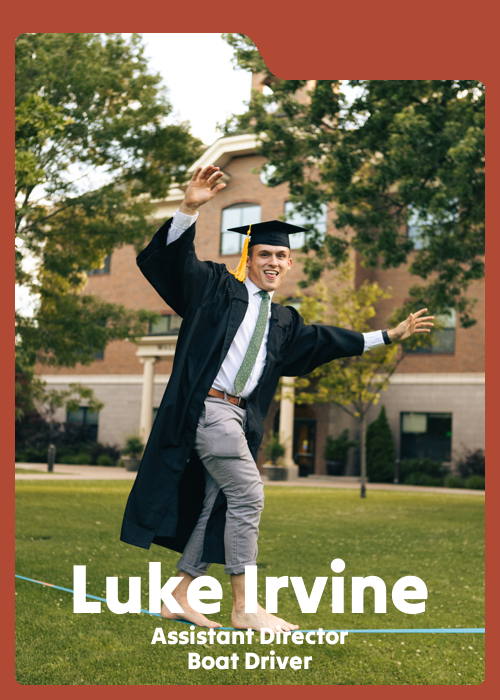
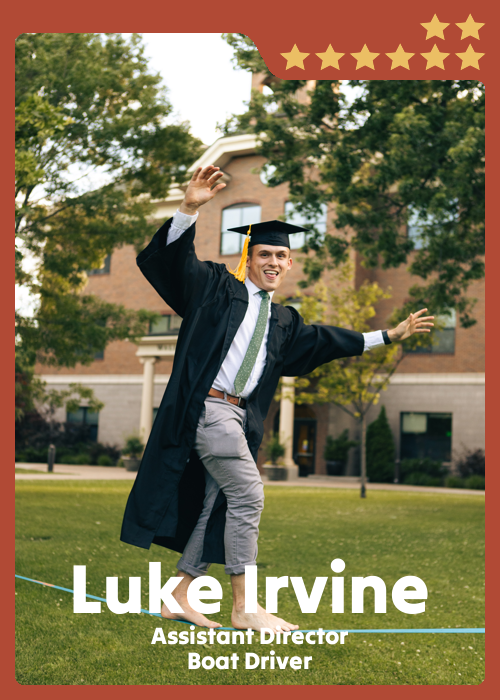
added stars

Changed region(s): [[0.57, 0.0, 0.96, 0.12]]

diff --git a/main.py b/main.py
@@ -4,7 +4,8 @@ import textwrap
 import os
 import json
 
-def add_front_text(canvas, draw, texts):
+def add_front_text(canvas, texts):
+  draw = ImageDraw.Draw(canvas)
   # set base margin
   y = canvas.height - 30
 
@@ -41,6 +42,13 @@ def add_front_text(canvas, draw, texts):
     # adjust y for margin
     y += text['margin_bottom']
 
+def add_stars(canvas, years):
+  star = Image.open("materials/star.png")
+  paste_alpha = star.split()[-1]
+  for i in range(years):
+    x = 450 - ((i % 6) * 35)
+    y = 37 - (i // 6) * 30
+    canvas.paste(star, (x, y), mask=paste_alpha)
 
 # Set the position of the name on the card
 name_position = (50, 50)
@@ -74,7 +82,6 @@ for card_data in data:
   canvas.paste(border, (0, 0), mask=paste_alpha)
 
   # Add the name to the card
-  draw = ImageDraw.Draw(canvas)
   texts = [{
     "text": position,
     "size": 24,
@@ -87,7 +94,10 @@ for card_data in data:
     "width": 12,
     "margin_bottom": 5
   })
-  add_front_text(canvas, draw, texts)
+  add_front_text(canvas, texts)
+
+  # add stars
+  add_stars(canvas, card_data['years'])
 
   # Get date for folder name
   current_datetime = datetime.datetime.now()
